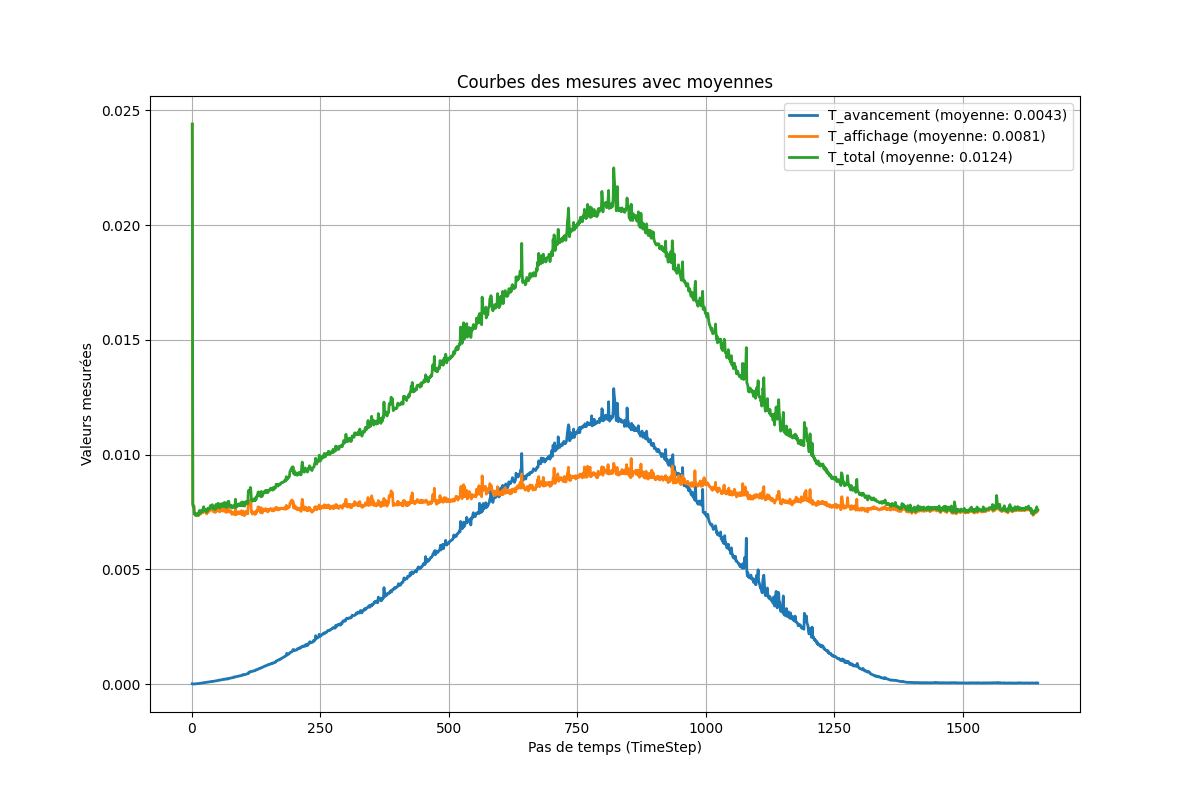
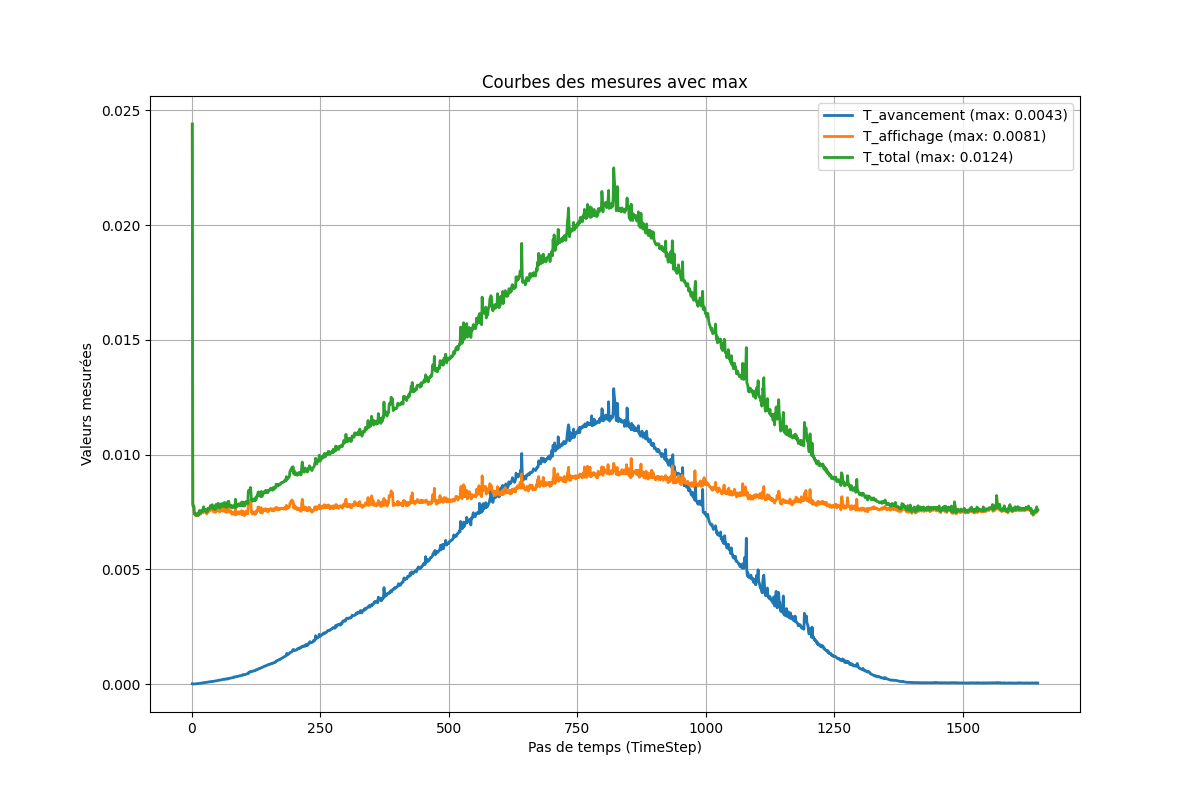
Correction pour mesurer le pic

Changed region(s): [[0.6475, 0.125, 0.8942, 0.2188], [0.37, 0.0938, 0.6475, 0.125]]

diff --git a/projet/plot.py b/projet/plot.py
@@ -45,11 +45,11 @@ plt.figure(figsize=(12, 8))
 # Tracer toutes les colonnes sauf TimeStep
 for column in avg_data.columns:
     if column != "TimeStep":
-        plt.plot(avg_data["TimeStep"], avg_data[column], linewidth=2, label=f"{column} (moyenne: {mean_values[column]:.4f})")
+        plt.plot(avg_data["TimeStep"], avg_data[column], linewidth=2, label=f"{column} (max: {mean_values[column].max():.4f})")
 
 plt.xlabel("Pas de temps (TimeStep)")
 plt.ylabel("Valeurs mesurées")
-plt.title("Courbes des mesures avec moyennes")
+plt.title("Courbes des mesures avec max")
 plt.legend()
 plt.grid(True)
 
